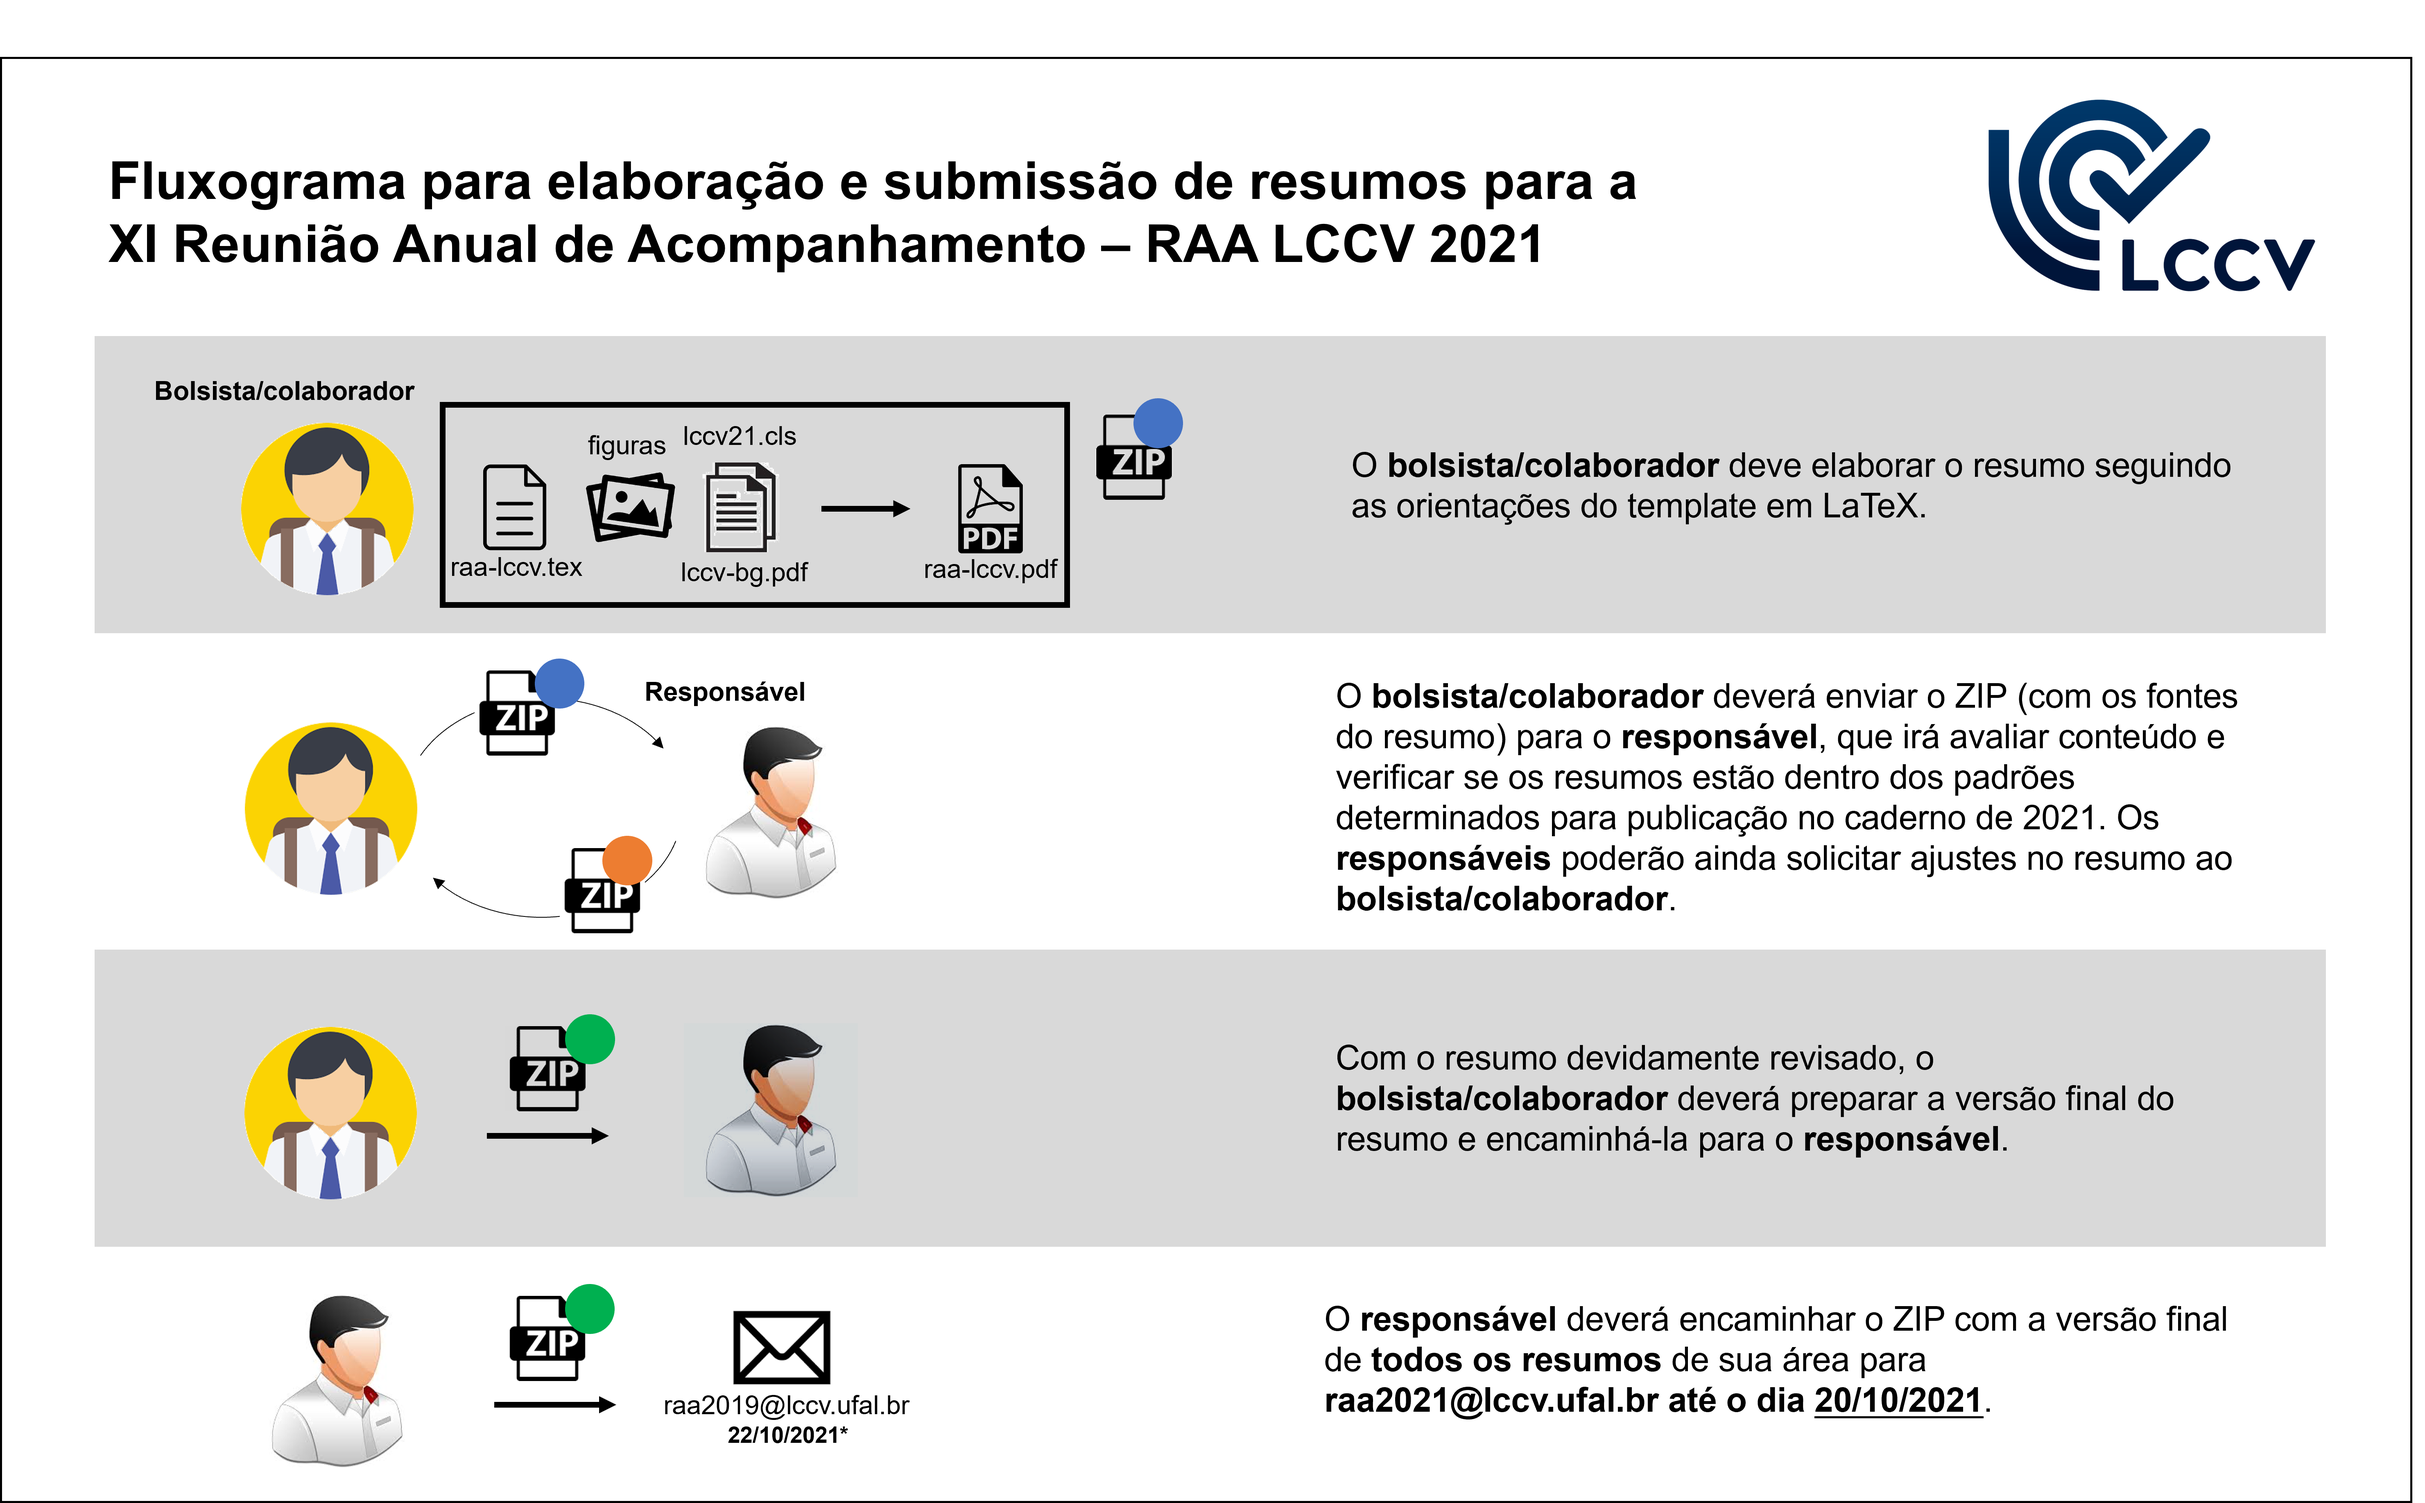
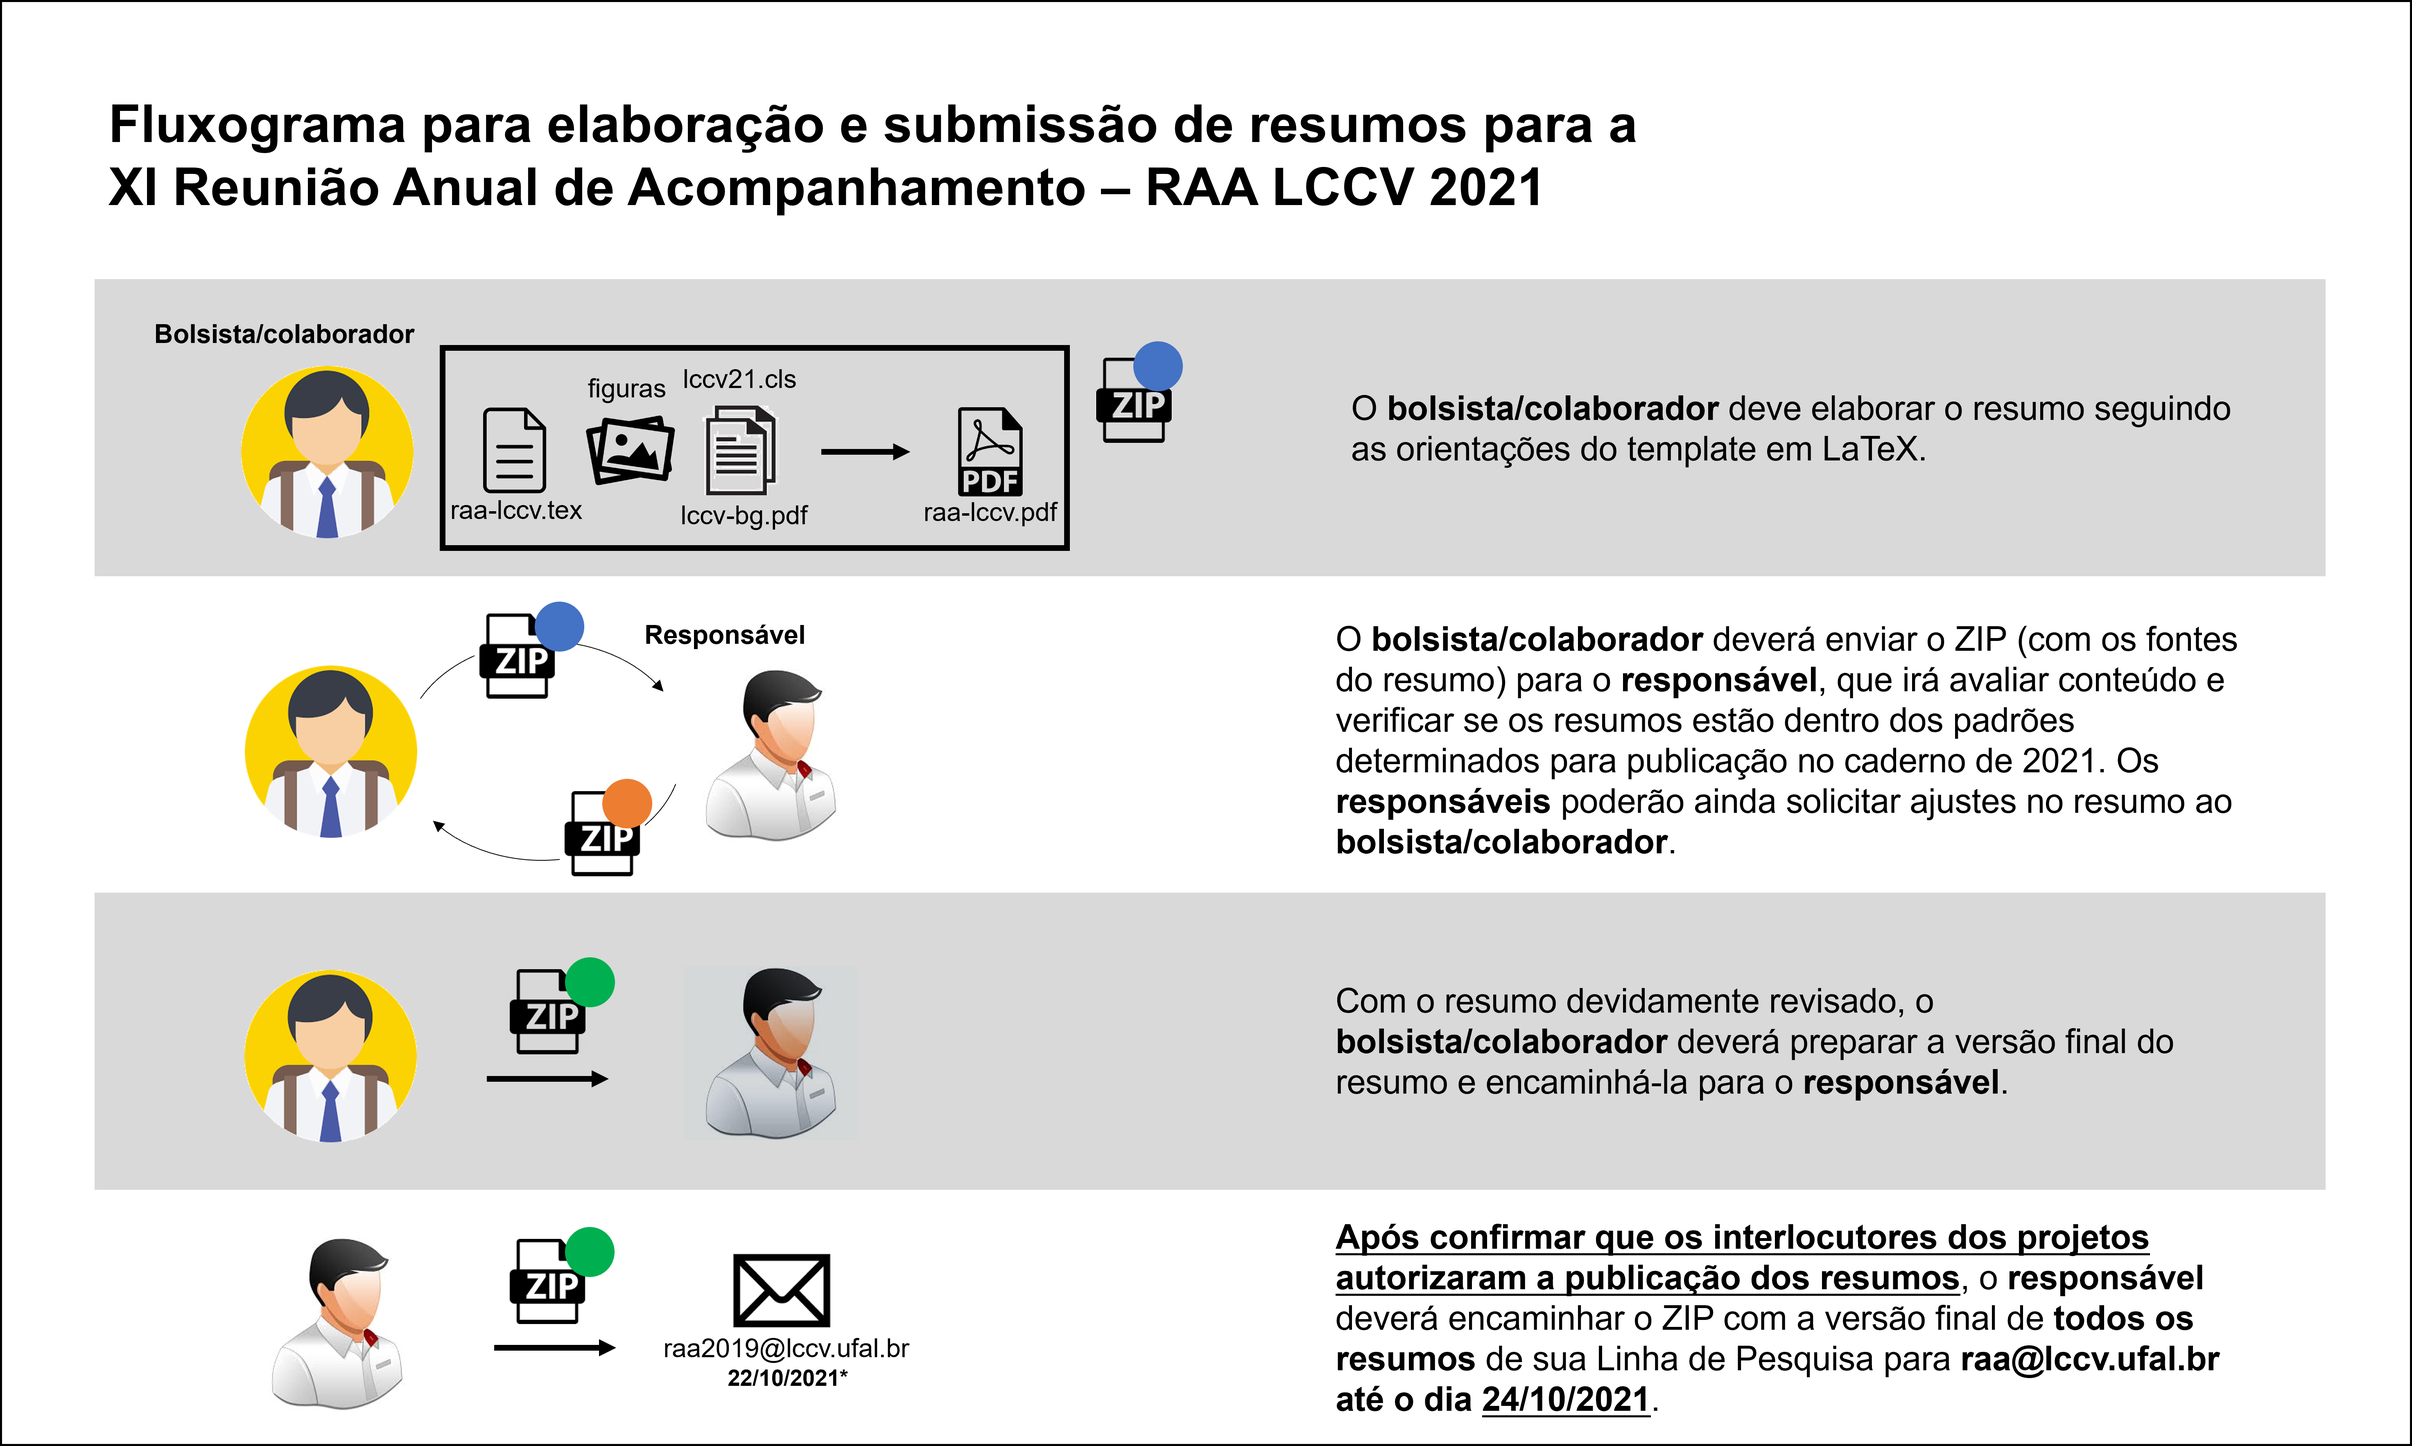
Ajustes no prazo de envio, e omissão das informações sobre a apresentação, por enquanto.

Changed region(s): [[0.0312, 0.0623, 0.9683, 0.9963], [0.9683, 0.0, 1.0, 1.0], [0.531, 0.685, 0.9058, 0.7784]]

diff --git a/index.html b/index.html
@@ -4,12 +4,10 @@
 <p class="has-line-data" data-line-start="2" data-line-end="3"><a href="http://lccv.ufal.br"><img src="https://lccvufal.github.io/raa2021/docs/logolccv.png" alt="LCCV" width=80></a></p>
 <p class="has-line-data" data-line-start="4" data-line-end="5"><strong>O evento será totalmente online e ocorrerá no dia 03/12/2021</strong></p>
 <p class="has-line-data" data-line-start="6" data-line-end="7">Está aberta a submissão de resumos para a XI Reunião Anual de Acompanhamento - RAA LCCV 2021. É necessário enviar um resumo de uma página para cada pesquisa/atividade desenvolvida ou em andamento no LCCV neste ano.</p>
-<p class="has-line-data" data-line-start="8" data-line-end="9">Todos os alunos de graduação e de pós, colaboradores e pesquisadores devem participar da elaboração de pelo menos um resumo. Além disso, deverá ser elaborado um resumo geral de cada projeto em desenvolvimento. Esse material irá compor o <strong>caderno de resumos de 2021</strong>, que é de extrema importância para registrarmos e divulgarmos os desenvolvimentos do LCCV. O caderno de 2020 pode ser acessado através do seguinte link:</p>
-<ul>
-<li class="has-line-data" data-line-start="9" data-line-end="11"><a href="https://lccvufal.github.io/raa2021/docs/resumos-raa-2020.pdf">RAA 2020</a></li>
+<p class="has-line-data" data-line-start="8" data-line-end="9">Todos os alunos de graduação e de pós, colaboradores e pesquisadores devem participar da elaboração de pelo menos um resumo. Além disso, deverá ser elaborado um resumo geral de cada projeto em desenvolvimento. Esse material irá compor o <strong>caderno de resumos de 2021</strong>, que é de extrema importância para registrarmos e divulgarmos os desenvolvimentos do LCCV. 
 </ul>
 <h3 class="code-line" data-line-start=11 data-line-end=12 ><a id="Sobre_os_resumos_11"></a>Sobre os resumos</h3>
-<p class="has-line-data" data-line-start="12" data-line-end="13">O resumo deve ser elaborado a partir de um <a href="https://lccvufal.github.io/raa2020/docs/raa-lccv-2021.zip">template LaTeX</a>. A plataforma online <a href="https://www.overleaf.com">Overleaf</a> é recomendada para elaboração dos resumos.</p>
+<p class="has-line-data" data-line-start="12" data-line-end="13">O resumo deve ser elaborado a partir de um <a href="https://lccvufal.github.io/raa2021/docs/raa-lccv-2021.zip">template LaTeX</a>. A plataforma online <a href="https://www.overleaf.com">Overleaf</a> é recomendada para elaboração dos resumos.</p>
 <p class="has-line-data" data-line-start="14" data-line-end="15">Uma estrutura de <strong>responsáveis</strong> foi definida com base nas linhas de pesquisa dos projetos do LCCV:</p>
 <table class="table table-striped table-bordered">
 <thead>
@@ -57,7 +55,7 @@
 <a href="https://lccvufal.github.io/raa2021/docs/fluxograma.png"><img src="https://lccvufal.github.io/raa2021/docs/fluxograma21.png" alt="fluxograma" width=800></a></p>
 <p class="has-line-data" data-line-start="28" data-line-end="29">Os responsáveis devem repassar as versões finais dos resumos (fontes em <em>LaTeX</em>), devidamente corrigidos e ajustados, e, se for o caso, com as devidas autorizações, para <a href="mailto:raa@lccPaulov.ufal.br">raa@lccv.ufal.br</a> até o dia <strong>22/10/2021</strong>.</p>
 <p class="has-line-data" data-line-start="30" data-line-end="31">Em caso de dúvida, favor enviar e-mail para <a href="mailto:raa@lccv.ufal.br">raa@lccv.ufal.br</a></p>
-<h3 class="code-line" data-line-start=32 data-line-end=33 ><a id="Sobre_as_apresentaes_32"></a>Sobre as apresentações</h3>
+<!-- <h3 class="code-line" data-line-start=32 data-line-end=33 ><a id="Sobre_as_apresentaes_32"></a>Sobre as apresentações</h3>
 <p class="has-line-data" data-line-start="33" data-line-end="34">Este ano, o evento ocorerrá em um dia, havendo apenas apresentações relacionadas às áreas de atuação do LCCV.</p>
 <p class="has-line-data" data-line-start="35" data-line-end="36">As apresentações devem ser feitas por área:</p>
 <ul>
@@ -68,4 +66,4 @@
 <li class="has-line-data" data-line-start="40" data-line-end="42">Gestão</li>
 </ul>
 <p class="has-line-data" data-line-start="42" data-line-end="43">e elaboradas conjuntamente pelos responsáveis de cada área, conforme template PowerPoint a ser disponibilizado em breve.</p>
-<p class="has-line-data" data-line-start="44" data-line-end="45">Os horários das apresentações ainda serão definidos.</p>
+<p class="has-line-data" data-line-start="44" data-line-end="45">Os horários das apresentações ainda serão definidos.</p> -->
